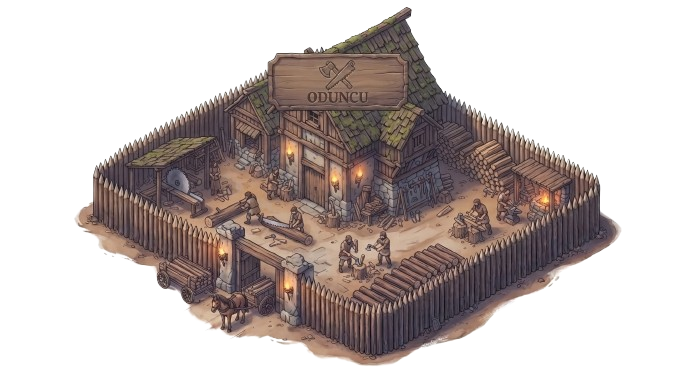
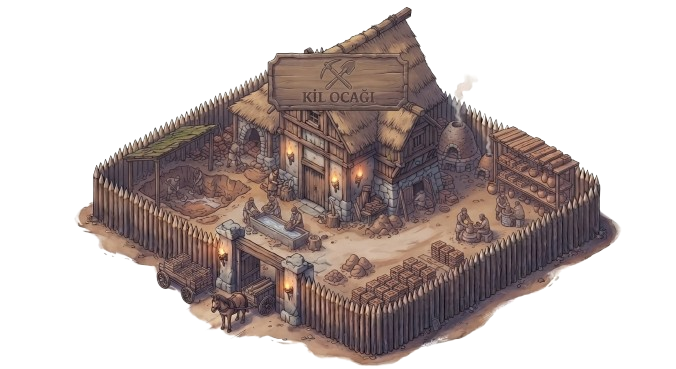
feat: update starting resources and army values for villages
- Increased the starting number of spears for existing villages from 100 to 10,000 in the migration file.
- Added a new migration to set default starting resources for villages to 5,000 wood, clay, and iron.
- Updated game and index HTML files to reflect the new starting resource values for players.

Changed region(s): [[0.1864, 0.0298, 0.8698, 0.8347], [0.2175, 0.6856, 0.3107, 0.7751], [0.3728, 0.7154, 0.4038, 0.7453]]

diff --git a/src/web/index.html b/src/web/index.html
@@ -75,7 +75,7 @@
         <h2>Geliştirme dünyası · Oyun kuralları</h2>
         <div class="panel-body">
           <p><strong>İlk yerleşim:</strong> Her hesap bir köy oluşturabilir.</p>
-          <p><strong>Başlangıç:</strong> 1.500 odun, kil ve demir; temel binalar hazır.</p>
+          <p><strong>Başlangıç:</strong> 5.000 odun, kil ve demir; temel binalar hazır.</p>
           <p><strong>İnşaat:</strong> Köy başına aynı anda bir yükseltme.</p>
           <p class="muted">
             Maliyetler ve süreler geliştirme testi içindir.

diff --git a/src/web/game.html b/src/web/game.html
@@ -50,7 +50,7 @@
           <span class="onboarding-symbol">⚑</span>
           <h3>İlk köyünle başla.</h3>
           <p>
-            Köyünü kurarak 1.500 odun, kil ve demirle
+            Köyünü kurarak 5.000 odun, kil ve demirle
             gelişmeye başlayabilirsin.
             Ana bina, içtima meydanı, çiftlik, ambar ve gizli depo
             hazır gelir; kaynak binalarını sen inşa edersin.

diff --git a/src/web/mod.rs b/src/web/mod.rs
@@ -72,7 +72,6 @@ fn building_svg(kind: &str) -> Option<&'static str> {
         "rally_point" => include_str!("building-rally_point.svg"),
         "statue" => include_str!("building-statue.svg"),
         "market" => include_str!("building-market.svg"),
-        "timber" => include_str!("building-timber.svg"),
         "iron" => include_str!("building-iron.svg"),
         "farm" => include_str!("building-farm.svg"),
         "warehouse" => include_str!("building-warehouse.svg"),
@@ -88,6 +87,7 @@ fn building_png(kind: &str) -> Option<&'static [u8]> {
         "headquarters" => include_bytes!("center-build.png").as_slice(),
         "barracks" => include_bytes!("kisla.png").as_slice(),
         "clay" => include_bytes!("kil-ocagi.png").as_slice(),
+        "timber" => include_bytes!("oduncu.png").as_slice(),
         _ => return None,
     })
 }
